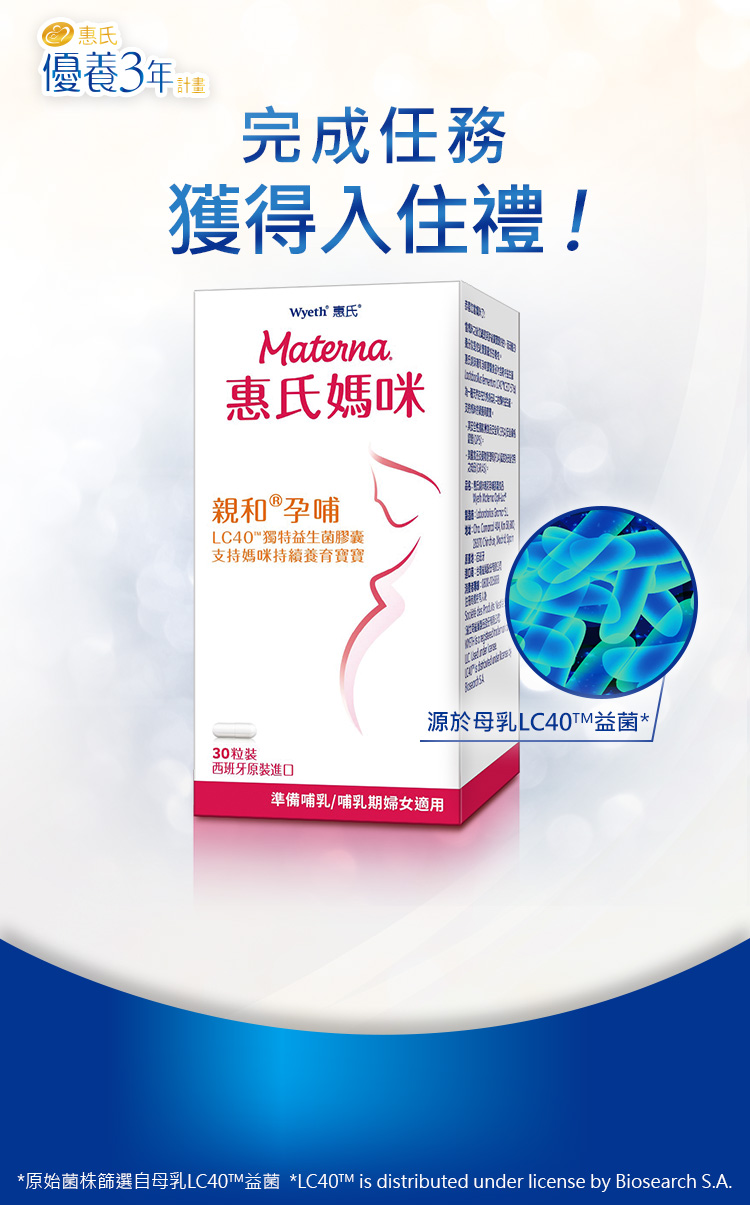
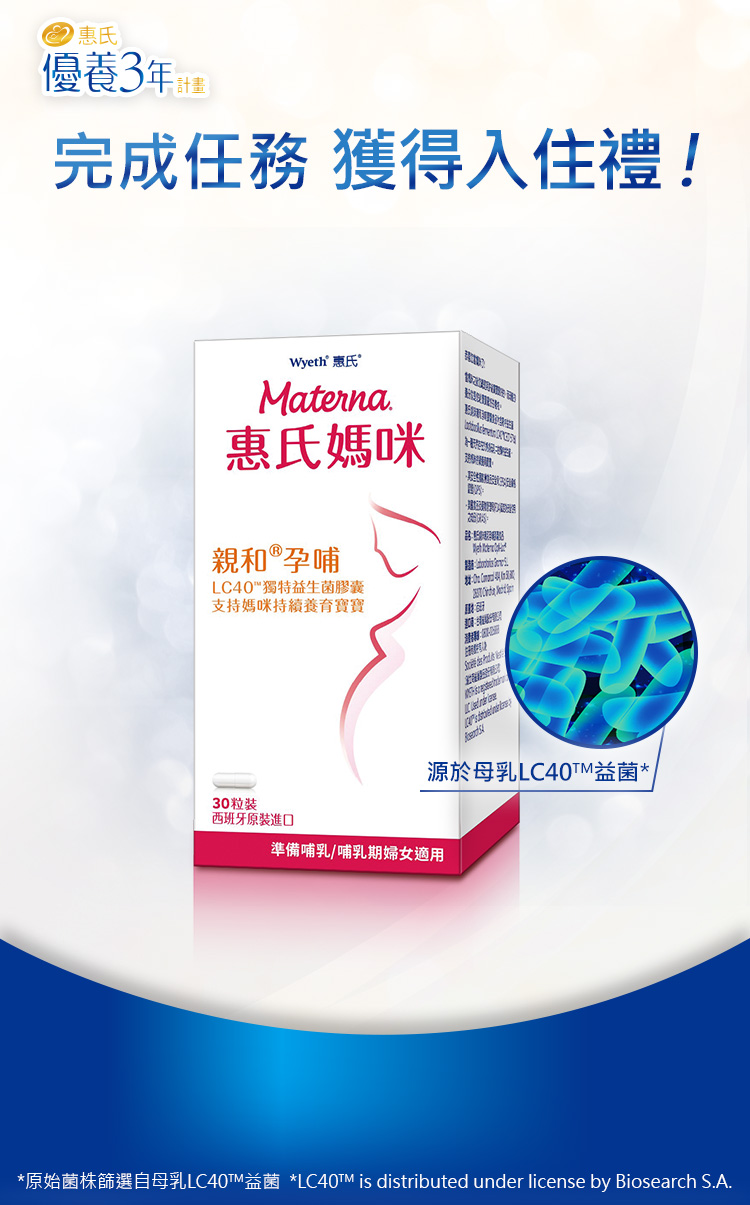
content edited
page 1內容修改

Changed region(s): [[0.0613, 0.0921, 0.9507, 0.7983]]

diff --git a/css/common.css b/css/common.css
@@ -340,7 +340,7 @@ body {
         animation: img_shine 1.5s linear infinite alternate; }
     body .LC40-index-wrap .content {
       position: absolute;
-      top: 763px;
+      top: 0;
       left: 0;
       right: 0;
       z-index: 2;
@@ -354,14 +354,26 @@ body {
         body .LC40-index-wrap .content .text p {
           text-align: center;
           font-size: 34px;
-          font-weight: bolder; }
+          font-weight: bolder;
+          position: absolute; }
           body .LC40-index-wrap .content .text p:nth-of-type(1) {
-            color: #ba7c17; }
-            body .LC40-index-wrap .content .text p:nth-of-type(1) span {
-              font-size: 55px; }
-          body .LC40-index-wrap .content .text p:nth-of-type(2) {
+            color: #ba7c17;
+            font-size: 40px;
+            line-height: 1.4;
             padding-top: 0.5em;
+            left: 0;
+            right: 0;
+            top: 197px; }
+            body .LC40-index-wrap .content .text p:nth-of-type(1) span {
+              display: block;
+              font-size: 34px; }
+          body .LC40-index-wrap .content .text p:nth-of-type(2) {
+            left: 0;
+            right: 0;
+            top: 906px;
             color: #073190; }
+            body .LC40-index-wrap .content .text p:nth-of-type(2) span {
+              font-size: 55px; }
 
 .modal-dialog {
   margin: 100px auto; }

diff --git a/css/theme/index.scss b/css/theme/index.scss
@@ -28,7 +28,7 @@ body {
     }
     .content {
       position: absolute;
-      top: 763px;
+      top: 0;
       left: 0;
       right: 0;
       z-index: 2;
@@ -44,14 +44,27 @@ body {
           text-align: center;
           font-size: 34px;
           font-weight: bolder;
+          position: absolute;
           &:nth-of-type(1) {
             color: $dark-yellow;
+            font-size: 40px;
+            line-height: 1.4;
+            padding-top: 0.5em;
+            left: 0;
+            right: 0;
+            top: 197px;
             span {
-              font-size: 55px;
+              display: block;
+              font-size: 34px;
             }
           }
           &:nth-of-type(2) {
-            padding-top: 0.5em;
+            left: 0;
+            right: 0;
+            top: 906px;
+            span {
+              font-size: 55px;
+            }
             color: $dark-blue;
           }
         }

diff --git a/index.html b/index.html
@@ -17,8 +17,10 @@
       </div>
       <div class="content">
         <div class="text">
+          <p class="shine-font-blue">
+            惠氏媽咪 親和孕哺LC40膠囊 <span>正品30粒 市價$1580</span>
+          </p>
           <p class="shine-font-yellow">為寶寶吃的第一口<span>保護力</span></p>
-          <p class="shine-font-blue">惠氏媽咪親和孕哺LC40膠囊 (價值$1680)</p>
         </div>
       </div>
       <footer>
